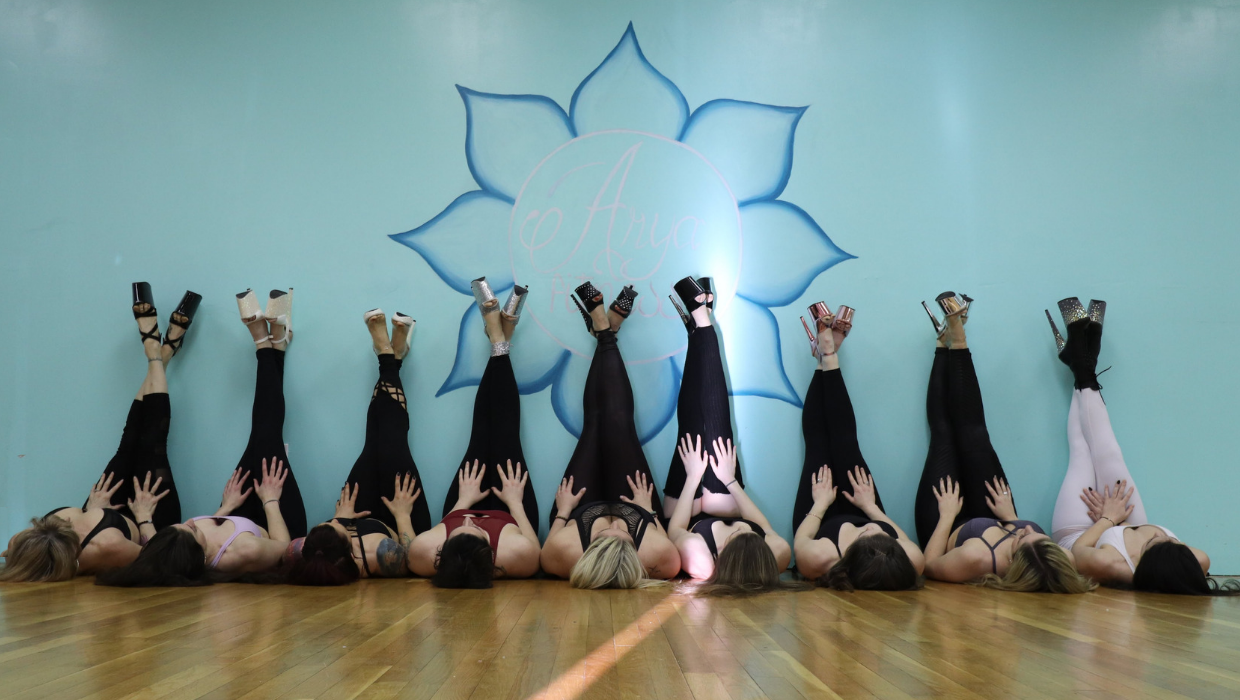
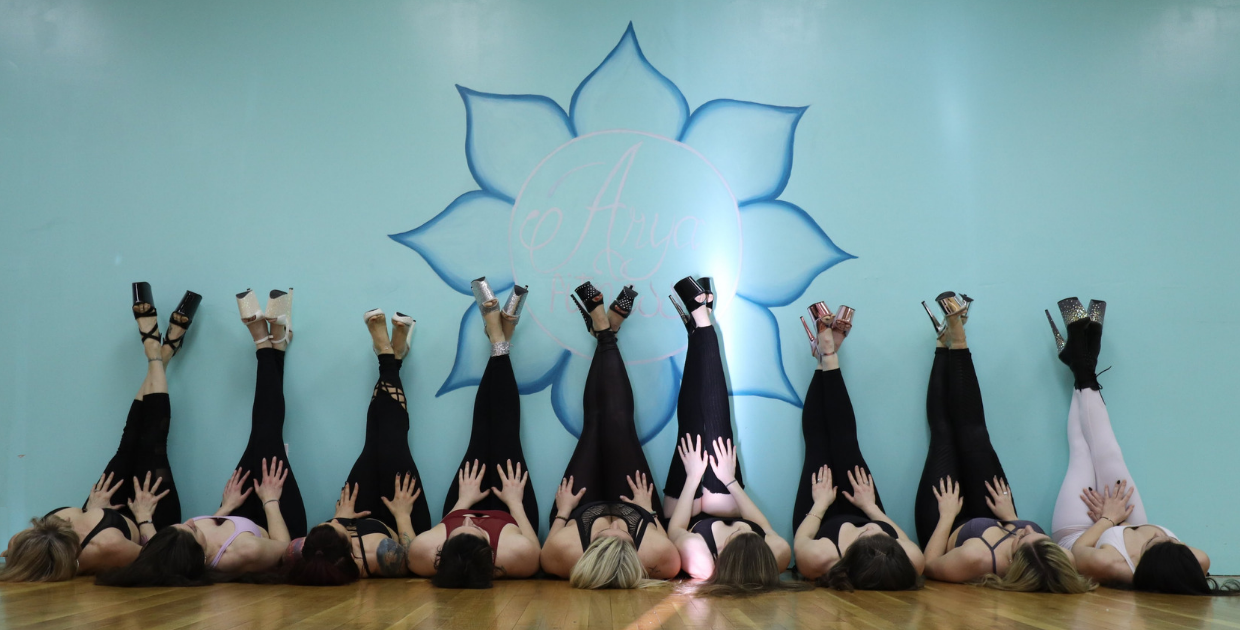
pic

diff --git a/classes.html b/classes.html
@@ -665,7 +665,7 @@ src="https://www.facebook.com/tr?id=693327137516990&ev=PageView
                                 <div class="col col-12" style="padding-left: 0px;">
                                     <div class="wpb_raw_code wpb_content_element wpb_raw_html">
                                         <div class="wpb_wrapper">
-                                            <img src="images/aboutpage/beingarya.jpg" />
+                                            <img src="images/aboutpage/beingarya.png" />
                                         </div>
                                     </div>
                                 </div>
